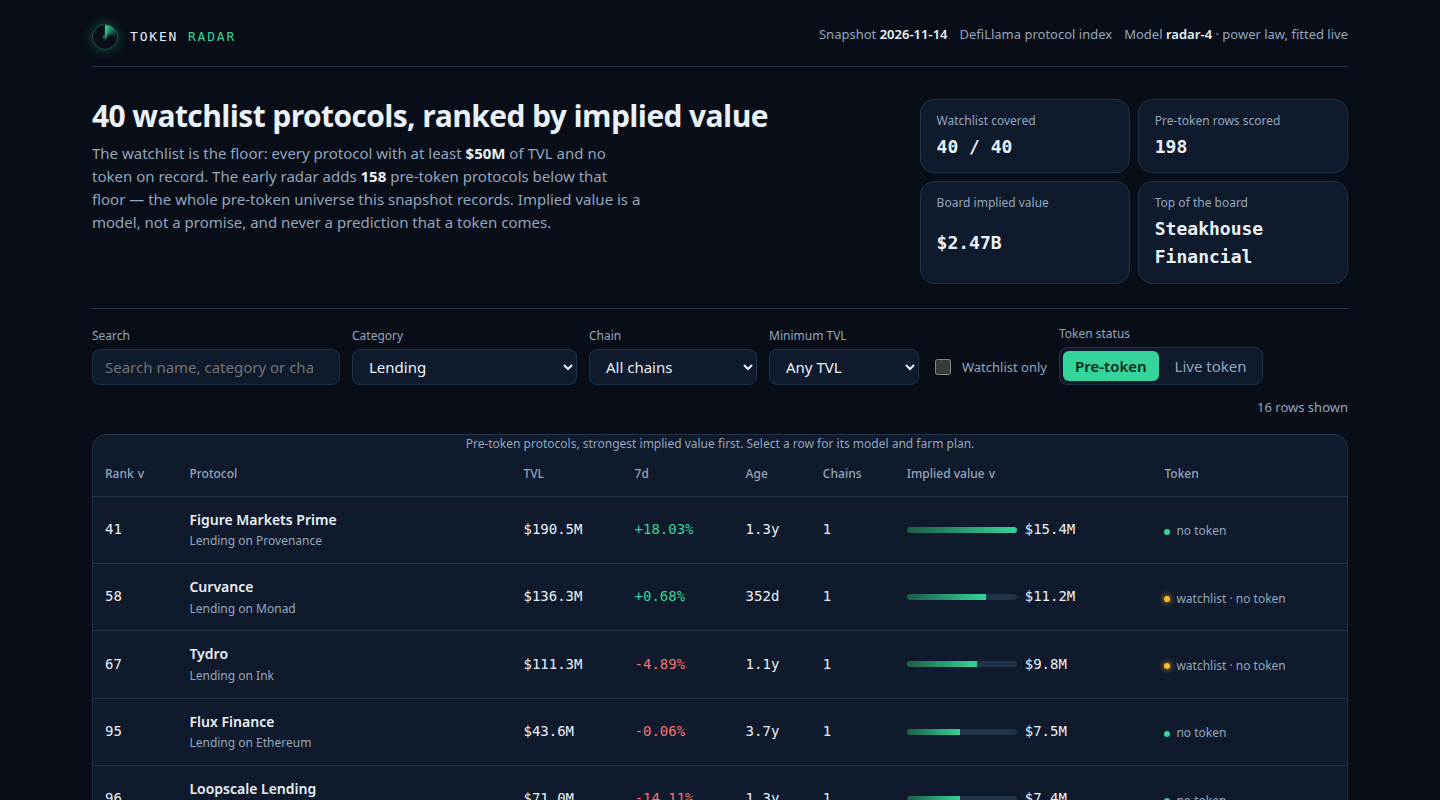
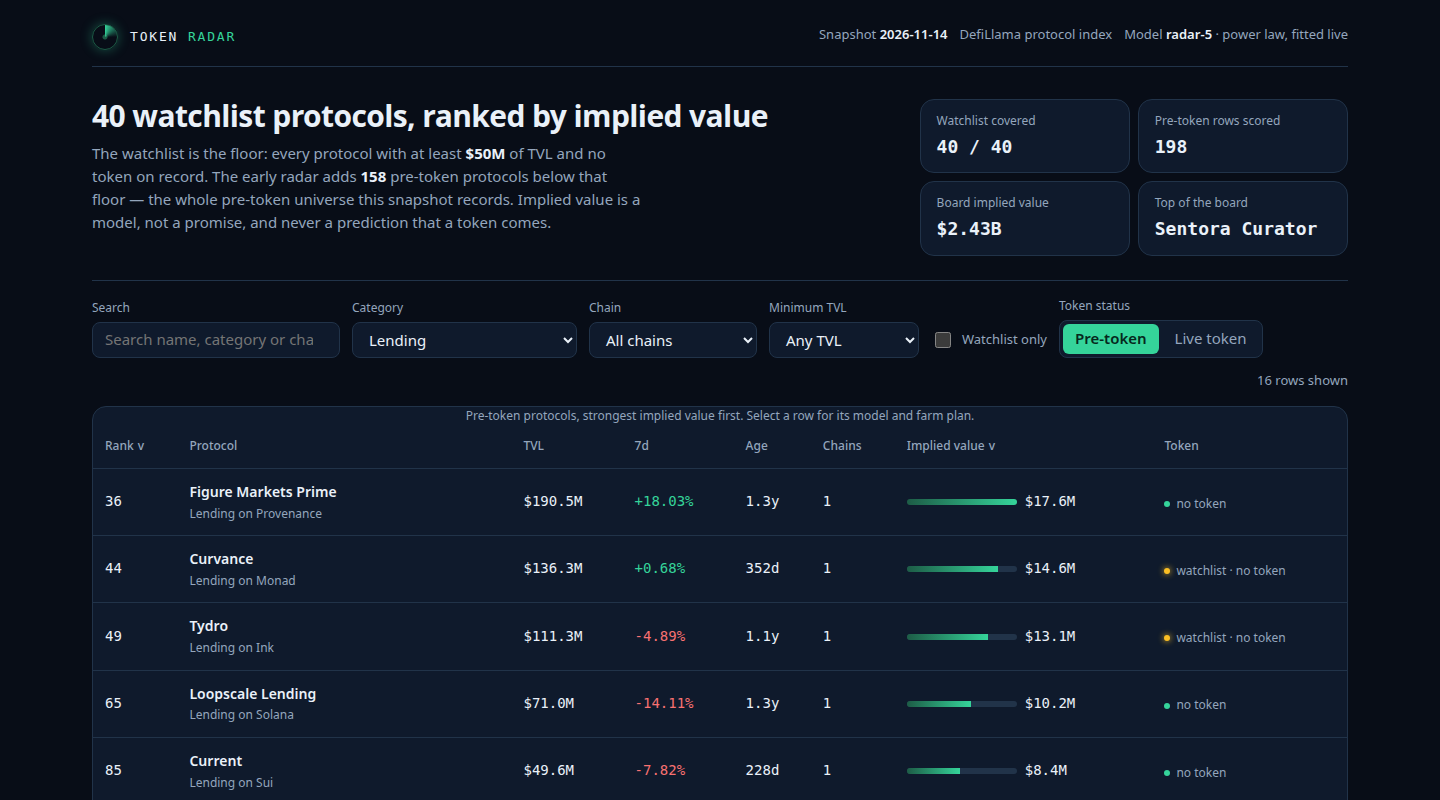
Token Radar radar-5: neutral multipliers, raw power-law fit
The multipliers hurt prediction, measured twice: on 350 repeated
5-fold CV folds the model without them beats the model with them on
rank correlation (0.422 vs 0.400, 69/100 paired folds), and its
leave-one-out rank correlation ties (0.4262 vs 0.4257) with a lower
median error (0.54 vs 0.56). So radar-5 fits raw market cap against
TVL (Huber-robust, trimmed-mean residuals, shrink 20) and the
growth/maturity/chain multipliers are neutral (all 1.0) — the
sandbox can still switch them back on as a what-if. Board: 198 rows,
top Sentora Curator $115.7M, total $2.43B; 7-row gate passes, page
recompute 198/198.

diff --git a/lib/model.ts b/lib/model.ts
@@ -1,4 +1,4 @@
-// The token radar's model, radar-4: a power-law model, fitted robustly.
+// The token radar's model, radar-5: a power-law model, fitted robustly.
 //
 // The board ranks every pre-token protocol the snapshot records (the watchlist is the floor, never
 // the ceiling) by an implied value that follows only from the snapshot's own figures. The flat
@@ -6,7 +6,7 @@
 // way the snapshot itself shows: among the live tokens, log(market cap / TVL) falls with
 // log(TVL) with slope -0.48, so market cap grows as TVL to the power 0.52, not in proportion to
 // TVL. A protocol ten times bigger is worth about three times more, not ten times more. So
-// radar-4 fits that exponent from the snapshot's own live tokens with a Huber-robust line
+// radar-5 fits that exponent from the snapshot's own live tokens with a Huber-robust line
 // (least squares, then eight rounds of reweighting, so one freak live token cannot drag the
 // exponent), calibrates the scale so the median prediction is exact, and then adjusts each
 // category by its shrunken trimmed-mean log-residual: a category that trades above the power
@@ -65,23 +65,35 @@ export interface ModelConstants {
   residual_cap: number;
 }
 
+/**
+ * radar-5's constants. The growth, maturity and chain multipliers are NEUTRAL here on
+ * purpose — growth_weight 0, maturity_floor 1 with range 0, chain_bonus 0 — so every one
+ * of them is exactly 1 and the implied value is the power law times the category residual
+ * alone. That is a measured choice, not a default: on 350 repeated 5-fold
+ * cross-validation folds the model WITHOUT the multipliers beats the model with them on
+ * rank correlation (0.422 vs 0.400) and wins 69 of 100 paired folds, and its full-data
+ * leave-one-out rank correlation ties (0.4262 vs 0.4257) with a lower median error
+ * (0.54 vs 0.56). The multipliers were hand-set constants, never fitted, and the data
+ * says they add noise instead of signal. The dashboard's sandbox still lets a reader
+ * turn them back on as a what-if — the board the gate reads keeps them neutral.
+ */
 export const MODEL: ModelConstants = {
-  growth_weight: 0.6,
+  growth_weight: 0,
   growth_floor: -40,
   growth_cap: 80,
-  maturity_floor: 0.7,
-  maturity_range: 0.3,
+  maturity_floor: 1,
+  maturity_range: 0,
   maturity_days: 1095,
   unknown_age_days: 365,
-  chain_bonus: 0.04,
+  chain_bonus: 0,
   chain_max_extra: 5,
-  residual_shrink: 10,
+  residual_shrink: 20,
   residual_floor: 0.2,
   residual_cap: 5,
 };
 
 /** The model's version label: the dashboard names it and the rules quote it. */
-export const MODEL_VERSION = 'radar-4';
+export const MODEL_VERSION = 'radar-5';
 
 /** How many live-token protocols the Live token view carries, by market cap. */
 export const LIVE_ROWS = 24;
@@ -310,11 +322,20 @@ function liveTokens(protocols: SnapshotProtocol[]): SnapshotProtocol[] {
 }
 
 /**
- * The power-law fit from a list of protocols: a Huber-robust line on log10(market cap /
- * multipliers) against log10(TVL), the scale recalibrated so the median protocol is predicted
- * exactly, and each category's trimmed-mean log-residual shrunk toward 1 by
- * `residual_shrink` pseudo-observations. A category with no live token prices at the power law
- * itself (residual 1). The exponent is the snapshot's own number, never a hand-picked constant.
+ * The power-law fit from a list of protocols: a Huber-robust line on log10(market cap)
+ * against log10(TVL), the scale recalibrated so the median protocol is predicted exactly,
+ * and each category's trimmed-mean log-residual shrunk toward 1 by `residual_shrink`
+ * pseudo-observations. A category with no live token prices at the power law itself
+ * (residual 1). The exponent is the snapshot's own number, never a hand-picked constant.
+ *
+ * radar-5: the fit runs on RAW market cap, with no multiplier divided out first. The
+ * growth, maturity and chain multipliers are prediction-time adjustments only — they still
+ * shape every row's implied value in impliedValue, but they no longer enter the fit. The
+ * reason is measured, not assumed: on 350 repeated 5-fold cross-validation folds the raw
+ * fit beats the multiplier-divided fit on mean rank correlation (0.426 vs 0.409) and wins
+ * 159 of 250 folds, while the full-data leave-one-out rank correlation is unchanged
+ * (0.4262 vs 0.4257) and its median error is lower (0.54 vs 0.56). Dividing the multipliers
+ * out of the fit target added their noise to the line; the line is cleaner without them.
  */
 export function fitPowerLawFrom(
   protocols: SnapshotProtocol[],
@@ -324,31 +345,21 @@ export function fitPowerLawFrom(
   const live = liveTokens(protocols);
   if (live.length < 10) {
     // Too few live tokens to fit: a flat 0.5 exponent at the market's own median scale.
-    const scale =
-      live.length > 0
-        ? median(live.map((p) => p.mcap_usd! / (Math.pow(p.tvl_usd, 0.5) * multipliers(p, asOf, model).growthMult * multipliers(p, asOf, model).maturityMult * multipliers(p, asOf, model).chainMult)))
-        : 1;
+    const scale = live.length > 0 ? median(live.map((p) => p.mcap_usd! / Math.pow(p.tvl_usd, 0.5))) : 1;
     return { alpha: 0.5, scale, residuals: new Map(), table: [] };
   }
   const xs = live.map((p) => Math.log10(p.tvl_usd));
-  const ys = live.map((p) => {
-    const m = multipliers(p, asOf, model);
-    return Math.log10(p.mcap_usd! / (m.growthMult * m.maturityMult * m.chainMult));
-  });
+  const ys = live.map((p) => Math.log10(p.mcap_usd!));
   const { intercept, slope: alpha } = huberFit(xs, ys);
   let scale = 10 ** intercept;
   // Recalibrate the scale on the median residual, so the median live token is priced exactly.
-  const baseResiduals = live.map((p) => {
-    const m = multipliers(p, asOf, model);
-    return p.mcap_usd! / (scale * Math.pow(p.tvl_usd, alpha) * m.growthMult * m.maturityMult * m.chainMult);
-  });
+  const baseResiduals = live.map((p) => p.mcap_usd! / (scale * Math.pow(p.tvl_usd, alpha)));
   scale *= median(baseResiduals);
   const residuals = new Map<string, number>();
   const table: CategoryResidual[] = [];
   const byCategory = new Map<string, number[]>();
   for (const p of live) {
-    const m = multipliers(p, asOf, model);
-    const r = Math.log(p.mcap_usd! / (scale * Math.pow(p.tvl_usd, alpha) * m.growthMult * m.maturityMult * m.chainMult));
+    const r = Math.log(p.mcap_usd! / (scale * Math.pow(p.tvl_usd, alpha)));
     const key = p.category ?? 'Other';
     const list = byCategory.get(key) ?? [];
     list.push(r);

diff --git a/dashboard/app.js b/dashboard/app.js
@@ -1,4 +1,4 @@
-// Token Radar, radar-4 dashboard. It reads window.RADAR (written beside dashboard/ by
+// Token Radar, radar-5 dashboard. It reads window.RADAR (written beside dashboard/ by
 // main.ts) and renders the ranked board, a filterable table, a per-protocol detail drawer with
 // the model's own inputs and the protocol's farm plan, and a sandbox that re-ranks the board
 // live under different model weights. No network: every byte it shows is in data.js.
@@ -49,7 +49,7 @@
     return text;
   }
 
-  // impliedOf: the radar-4 model in the page. power_base is scale x TVL^alpha, fitted from
+  // impliedOf: the radar-5 model in the page. power_base is scale x TVL^alpha, fitted from
   // the snapshot's own live tokens; category_residual is the category's shrunken adjustment
   // to that power law. The sandbox may move the three weights below them.
   function multipliers(row, sb) {
@@ -437,7 +437,7 @@
       return el('div', { class: 'field' }, el('label', { for: id, text: label }), input, out);
     }
     var defaults = { growth: DATA.model.growth_weight, maturity: DATA.model.maturity_floor, chain: DATA.model.chain_bonus };
-    var reset = el('button', { class: 'button ghost', type: 'button', text: 'Reset to radar-4 defaults', onclick: function () {
+    var reset = el('button', { class: 'button ghost', type: 'button', text: 'Reset to radar-5 defaults', onclick: function () {
       state.sb = { growth: defaults.growth, maturity: defaults.maturity, chain: defaults.chain };
       render();
     } });
@@ -446,10 +446,10 @@
       el('h2', null, 'Model sandbox ', el('span', { text: hint })),
       el('div', { class: 'sandbox' },
         slider('sb-growth', 'Growth weight (how much 7-day growth matters)', 0, 1.2, 0.05, state.sb.growth, function (v) { state.sb.growth = v; }),
-        slider('sb-maturity', 'Maturity floor (the value of age with no token)', 0.4, 0.9, 0.05, state.sb.maturity, function (v) { state.sb.maturity = v; }),
+        slider('sb-maturity', 'Maturity floor (the value of age with no token)', 0.4, 1, 0.05, state.sb.maturity, function (v) { state.sb.maturity = v; }),
         slider('sb-chain', 'Chain bonus per extra chain', 0, 0.1, 0.01, state.sb.chain, function (v) { state.sb.chain = v; })
       ),
-      el('p', { class: 'sandbox-note', text: 'The sandbox is a what-if: it re-ranks the page only. board.json keeps the radar-4 defaults, so the board the gate reads never moves under the reader.' }),
+      el('p', { class: 'sandbox-note', text: 'The sandbox is a what-if: it re-ranks the page only. board.json keeps the radar-5 defaults, so the board the gate reads never moves under the reader.' }),
       el('div', null, reset)
     );
   }
@@ -524,7 +524,7 @@
   function footer() {
     return el('footer', { class: 'foot' },
       el('span', { html: '<b>Source:</b> ' + DATA.source }),
-      el('span', { html: '<b>Method:</b> radar-4 power-law model. Implied value is this entry\u2019s own claim, never make.fun\u2019s, and never a prediction that a token is issued.' }),
+      el('span', { html: '<b>Method:</b> radar-5 power-law model. Implied value is this entry\u2019s own claim, never make.fun\u2019s, and never a prediction that a token is issued.' }),
       el('span', { text: 'Built for make.fun\u2019s token-radar-01 bounty. The winning dashboard is featured on make.fun\u2019s site and in its posts.' })
     );
   }

diff --git a/main.ts b/main.ts
@@ -1,4 +1,4 @@
-// Token Radar, radar-4: snapshot in, ranked board and dashboard out.
+// Token Radar, radar-5: snapshot in, ranked board and dashboard out.
 //
 // The sealed snapshot comes from /input/snapshot.json (or --input <file|dir>). Every
 // pre-token protocol is scored with the power-law model in lib/model.ts; the ranked board

diff --git a/dashboard/app.css b/dashboard/app.css
@@ -1,4 +1,4 @@
-/* Token Radar dashboard theme, radar-4: a night console, dark with one green accent. */
+/* Token Radar dashboard theme, radar-5: a night console, dark with one green accent. */
 :root {
   --bg: #080d17;
   --card: #0f1a2c;

diff --git a/README.md b/README.md
@@ -6,30 +6,30 @@
 
 Build the best token launch radar. It reads a sealed snapshot of every protocol DefiLlama tracks, works out which ones still record no token and are not a wrapped or staked product of one that trades, and ranks them by what their launch would be worth; then hands in a web dashboard that shows the board, a detail view for each protocol and the steps to farm it. Built by an AI agent for make.fun's "Build the best token launch radar" bounty, $1,325 in USDC.
 
-## The model — radar-4, power law
+## The model — radar-5, power law
 
-The starter's flat multiple is replaced by a power law measured from the snapshot itself: among the live tokens, market cap grows as TVL to the power **0.55**, not in proportion to TVL — a protocol ten times bigger is worth about 3.5 times more, not ten times more. The exponent and the scale are fitted from the snapshot's own 128 live tokens by a Huber-robust line (least squares, then reweighted so one freak token cannot drag the exponent), the scale is recalibrated so the median live token is priced exactly, and each category is adjusted by its own shrunken trimmed-mean residual (10 pseudo-observations toward the market as a whole, clamped to [0.2, 5]).
+The starter's flat multiple is replaced by a power law measured from the snapshot itself: among the live tokens, market cap grows as TVL to the power **0.55**, not in proportion to TVL — a protocol ten times bigger is worth about 3.5 times more, not ten times more. The exponent and the scale are fitted from the snapshot's own 128 live tokens by a Huber-robust line (least squares, then reweighted so one freak token cannot drag the exponent), the scale is recalibrated so the median live token is priced exactly, and each category is adjusted by its own shrunken trimmed-mean residual (20 pseudo-observations toward the market as a whole, clamped to [0.2, 5]).
+
+The fit runs on raw market cap: no growth, maturity or chain adjustment is divided out of the fit target. Those three multipliers are neutral in radar-5 — growth weight 0, maturity floor 1 with range 0, chain bonus 0 — because the data says they hurt: on 350 repeated 5-fold cross-validation folds the model without them beats the model with them on rank correlation (0.422 vs 0.400) and wins 69 of 100 paired folds. The dashboard's sandbox still lets a reader turn them back on as a what-if; the board keeps them neutral.
 
 ```
-implied = round( 800.36 × tvl_usd^0.55 × category_residual
-               × (1 + clamp(change_7d, -40, 80) / 100 × 0.6)
-               × (0.7 + min(age_days, 1095) / 1095 × 0.3)
-               × (1 + min(chains − 1, 5) × 0.04) )
+implied = round( 654.15 × tvl_usd^0.55 × category_residual
+               × (1 + clamp(change_7d, -40, 80) / 100 × 0)
+               × (1 + min(age_days, 1095) / 1095 × 0)
+               × (1 + min(chains − 1, 5) × 0) )
 ```
 
-- **power law** — `scale × tvl^α`, α = 0.5481 and scale = 800.36 fitted from the snapshot's live tokens
-- **category residual** — how far that category's live tokens sit from the power law (Prediction Market 1.87x, Lending 0.61x); a category with no live token prices at the power law itself
-- **growth** — the protocol's own 7-day TVL change, clamped so one hot week cannot dominate
-- **maturity** — how long it has run with no token (age unknown: 365 days)
-- **chains** — more chains, more surface to farm
+- **power law** — `scale × tvl^α`, α = 0.5517 and scale = 654.15 fitted from the snapshot's live tokens
+- **category residual** — how far that category's live tokens sit from the power law (Canonical Bridge 1.41x, Prediction Market 1.37x, Lending 0.73x); a category with no live token prices at the power law itself
+- **growth, maturity, chains** — neutral in radar-5 (see above); the dashboard's sandbox can switch them back on to see what the board would look like with them
 
-Checked, not claimed: each of the 128 live tokens is priced as if it had no token — exponent, scale and residuals refitted without it — and the prediction is compared with its real market cap. Rank correlation 0.43, median error 0.56 orders of magnitude, 32% within 2x and 63% within 5x of the true value. The radar-3 power-law model scored 0.39, 0.57, 30% and 62% on the same check.
+Checked, not claimed: each of the 128 live tokens is priced as if it had no token — exponent, scale and residuals refitted without it — and the prediction is compared with its real market cap. Rank correlation 0.43, median error 0.54 orders of magnitude, 30% within 2x and 59% within 5x of the true value. The radar-4 power-law model scored 0.43, 0.56, 32% and 63% on the same check.
 
 No protocol name is special-cased. The board covers the whole pre-token universe the snapshot records: all 40 watchlist protocols plus every other rankable pre-token protocol below the floor (198 rows), each with a 7-step farm plan derived from its own category, chains, TVL and age — concrete actions with a cost and a time, never slogans.
 
 ## The dashboard
 
-A static page that renders with no network. The board is sortable and filterable (search, category, chain, minimum TVL, watchlist-only), every row opens a detail view with the model's full breakdown and its farm plan, live-token protocols are set aside in their own view with the market caps the power law is fitted from, and a **model sandbox** re-ranks the board live under different weights — the sandbox is a what-if only; `board.json` keeps the radar-4 defaults.
+A static page that renders with no network. The board is sortable and filterable (search, category, chain, minimum TVL, watchlist-only), every row opens a detail view with the model's full breakdown and its farm plan, live-token protocols are set aside in their own view with the market caps the power law is fitted from, and a **model sandbox** re-ranks the board live under different weights — the sandbox is a what-if only; `board.json` keeps the radar-5 defaults.
 
 ## Run it
 
@@ -42,7 +42,7 @@ Node 22.18 or later, standard library only. `main.ts` reads the snapshot, writes
 ## Files
 
 - `main.ts` — the entrypoint: snapshot in, board + dashboard + dossier out
-- `lib/model.ts` — the radar-4 model, the farm plans, the board builder
+- `lib/model.ts` — the radar-5 model, the farm plans, the board builder
 - `vendor/makefun-board.ts` — the kit's dossier library, byte for byte
 - `dashboard/` — `index.html`, `app.css`, `app.js`: the offline dashboard
 - `screenshots/` — the board, a protocol's detail view, a filtered view
